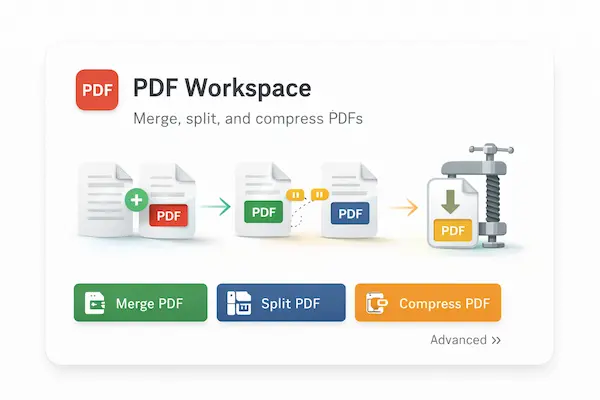
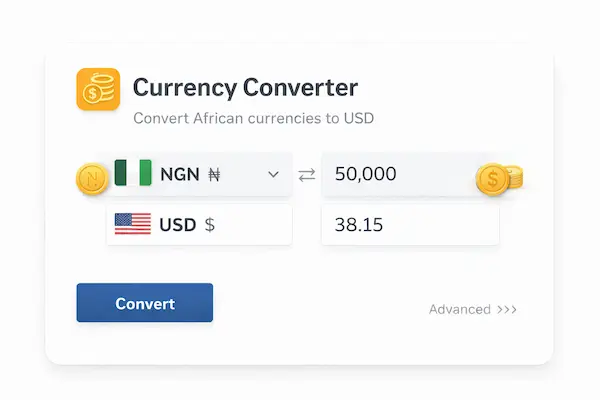
Homepage: dynamic stats from tool registry

diff --git a/index.html b/index.html
@@ -502,7 +502,7 @@
   <div class="hero-inner">
     <div>
       <div class="hero-eyebrow">Africa's Everything Platform</div>
-      <h1 class="hero-h1">120+ Free Tools.<br>Built for <span class="acc">Africa.</span></h1>
+      <h1 class="hero-h1" id="hero-h1">120+ Free Tools.<br>Built for <span class="acc">Africa.</span></h1>
       <p class="hero-sub">PAYE calculators. PDF workspace. Currency tools. CV builder. Remittance comparator. All built for Africa — 54 countries, always free.</p>
       <div class="hero-btns">
         <a href="#tools" class="btn-green">Explore Tools →</a>
@@ -527,11 +527,11 @@
         <div class="hs-lbl">African countries covered</div>
       </div>
       <div class="hs-item">
-        <div class="hs-num">12</div>
+        <div class="hs-num" id="stat-categories">—</div>
         <div class="hs-lbl">Tool categories</div>
       </div>
       <div class="hs-item">
-        <div class="hs-num">120+</div>
+        <div class="hs-num" id="stat-tools">—</div>
         <div class="hs-lbl">Tools in pipeline</div>
       </div>
       <div class="hs-item">
@@ -1265,6 +1265,20 @@
   document.querySelectorAll('.rv').forEach(el => obs.observe(el));
 
   // ══════════════════════════════════════════════════════
+  // DYNAMIC HERO STATS — from registry
+  // ══════════════════════════════════════════════════════
+  (function() {
+    if (typeof AFRO_TOOLS === 'undefined' || typeof AFRO_CATEGORIES === 'undefined') return;
+    var total = AFRO_TOOLS.length;
+    var catCount = Object.keys(AFRO_CATEGORIES).length;
+    var catEl = document.getElementById('stat-categories');
+    var toolEl = document.getElementById('stat-tools');
+    var h1 = document.getElementById('hero-h1');
+    if (catEl) catEl.textContent = catCount;
+    if (toolEl) toolEl.textContent = total + '+';
+    if (h1) h1.innerHTML = total + '+ Free Tools.<br>Built for <span class="acc">Africa.</span>';
+  })();
+
   // DYNAMIC CATEGORIES — rendered from AFRO_CATEGORIES + AFRO_TOOLS
   // ══════════════════════════════════════════════════════
   (function renderCategories() {